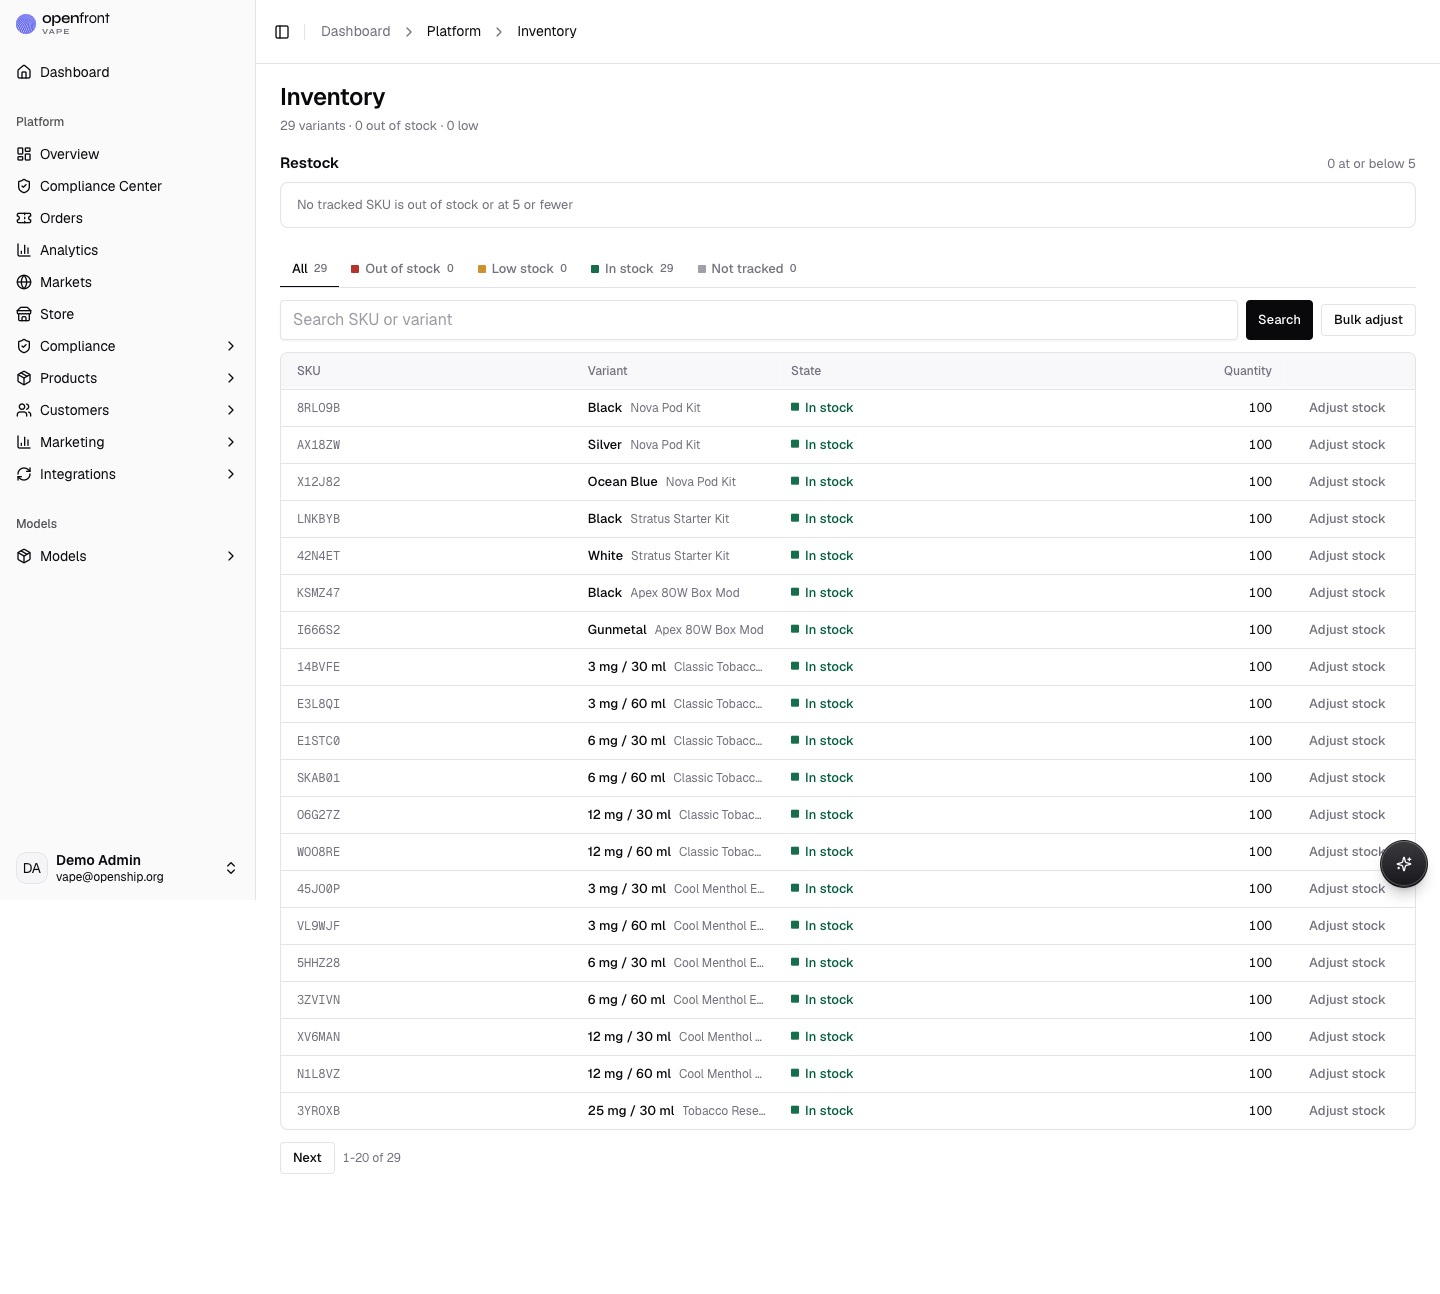
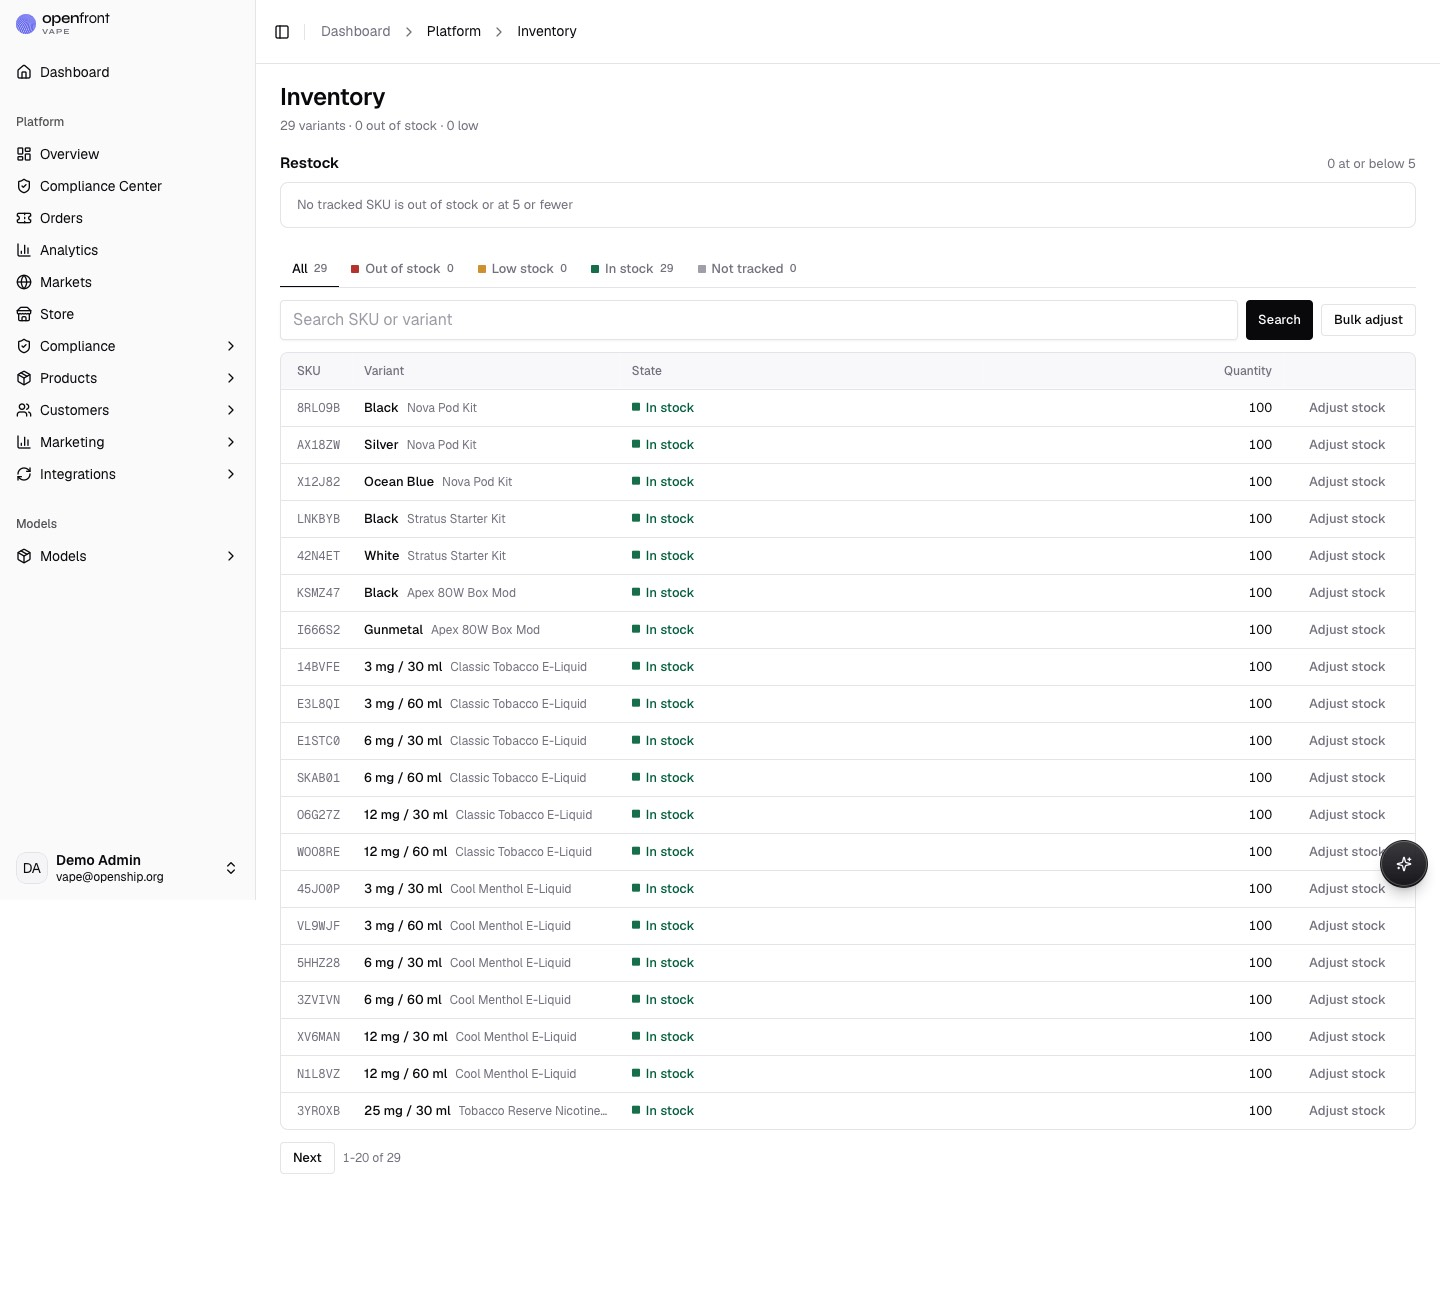
Design ready: full redesign report with live after screenshots

diff --git a/design/2026-10-25-full/DESIGN-READY.md b/design/2026-10-25-full/DESIGN-READY.md
@@ -1,0 +1,108 @@
+# Vape (Cloud Nine Vapor): full redesign of platform pages and storefront (2026-10-25)
+
+**Brief:** `~/Code/Euler/state/briefs/batches-2-6-full-redesign-2026-10-25.md`.
+
+**Live:** https://openfront-vape-production.up.railway.app/us (vape.openship.org once DNS is in).
+
+This is a redesign, not a polish. The earlier "spec sheet at night" storefront and the recessed-pill platform kit were treated as evidence and replaced. The shared dashboard shell is byte-identical to E-commerce (parity drift 0).
+
+## Process (impeccable)
+- **Context and product record.** I ran `impeccable context`, then wrote PRODUCT.md from inference. The owner ordered no approval stage, so the interview was skipped and every line is marked inferred.
+- **Critique.** Two isolated sub-agents. The synthesis is in `CRITIQUE.md`.
+  - The detector found nothing.
+  - Greps found 256 `rounded-full`, 64 `rounded-lg`/`rounded-xl` and 46 arbitrary 14–28px radii.
+  - One `<table>` existed in the whole platform.
+  - The release state was buried as 13px grey text.
+- **Direction rolls (`concept-seed`).**
+  - Platform (Operate): candidate 7 of 7, state excise tax stamps. Seed `798b96efc46301f0`.
+  - Storefront (Persuade): candidate 4 of 7, the shop's front window with neon and window lettering. Seed `9e4eac5c73a159f7`.
+  - The contracts are in `.impeccable/surfaces/features-{platform,storefront}.md`, including challenger verdicts and the raises they donated.
+- **Build.**
+  - I rewrote the kit myself (`vape-primitives.tsx`, `vape-ui.tsx`), plus the storefront theme (the `vp-*` section of `app/globals.css`) and its fonts.
+  - Six platform agents and one storefront agent then worked on disjoint directories.
+- **Gates.**
+  - `tsc --noEmit` exit 0 (full non-incremental run, plus the runner after every batch).
+  - Unit tests 22/22.
+  - Parity drift 0.
+  - `impeccable detect` returns `[]` on `features/platform` and `features/storefront`.
+- **Finish review.** A fresh `impeccable-finish-reviewer` returned **fix** with 8 items.
+  - Batch 1 was deployed. My first recapture caught the deploy mid-switch, and the reviewer rejected it. A clean recapture followed.
+  - The verdict pass scored **7 resolved and 1 partial**, and found 3 regressions: product names hidden on phone, a clipped queue row on phone, and inventory names crowded by the SKU column.
+  - Batch 2 fixed those and the partial item (the 21+ note, now lettered like door vinyl).
+  - Two rounds is the budget for an unattended run, so batch 2 has not been through a third review.
+- **Documentation.** `impeccable-documenter` wrote `DESIGN.md` and `.impeccable/design.json`.
+
+## Platform: the excise stamp
+- **Release bar.** Overview and Compliance Center open on a full-width release bar.
+  - It shows "Sales disabled" or "Sales enabled" as a stamp, the reason, and the kill-switch state.
+  - The kill-switch action sits right there. Its confirmation (a 10–500 character reason) is unchanged.
+- **Launch steps.** Blockers follow as ordered launch steps, each with its own fix link:
+  - kill switch;
+  - store details;
+  - merchant profile;
+  - rule set;
+  - product evidence;
+  - the five providers (identity, registry, tax, payment, carrier).
+- **Stamps.** Every compliance state is a flat 2px plate in its state colour with its word, a dotted state rule, and the record serial in mono. Stamp colours: cleared green, pending ochre, denied red, void grey.
+- **Controls.** Underline tabs replace recessed pill tracks. Buttons are flat 4px with one ink primary per page. Tables are dense with 36px rows and status columns. Empty states share one form.
+
+| Page | Leads with |
+|---|---|
+| Product Evidence | The unclassified-variants queue (now the default view), with Classify as the row action |
+| Provider approvals | The five required providers and which are missing, each with Add, Renew or Finish |
+| Jurisdictions | Coverage by level (allowed, blocked), then rule sets needing a policy |
+| Merchant profiles | Completeness, e.g. 5/7, with what is missing and a fix link |
+| Compliance ledger | Today's denials and manual reviews as a dense log: time, decision stamp, rule, purpose, jurisdiction, subject, actor, serial. The three pill tracks became one tab row plus two compact selects |
+| Orders | Held orders, then paid orders to ship, then the full table with payment and fulfilment status columns |
+| Products | Not on sale, one row per reason with a fix, then the table with a compliance stamp |
+| Inventory | The restock queue (lowest quantity first) |
+| Configuration lists | Discounts, gift cards, price lists, shipping, payment, markets and stores each lead with what is misconfigured or expiring |
+| Analytics | Sales now and what blocks revenue |
+| Store settings | Blank required fields |
+| API keys | Expired keys not yet revoked |
+
+## Storefront: the shop's front window
+- **The window band.** Deep glass, with:
+  - the store name in flat gold-leaf sign lettering (Big Shoulders, from Chicago sign-painting);
+  - one neon line beneath it in the logo hue (flat type, no fake glow);
+  - the departments painted on the glass as links;
+  - the 21+ notice lettered once like door vinyl.
+- **Inside.** Bright cool-white shelves, Hanken Grotesk body, Spline Sans Mono for strength, size and price. Product cards carry a strength, size and flavour fact table, using real option data only.
+- **Controls and chrome.**
+  - Joined square segmented plates. They wrap on phone.
+  - No pills anywhere.
+  - The footer is a glass band with gold headings.
+  - The age gate is a glass panel. Its cookie logic and copy are unchanged.
+- **Demo state.** Every demo product is a draft, so the shelves show the designed "being stocked" state.
+- **What I did not add.** No regulatory warning copy. That stays an owner decision.
+
+## Skills used, per screen, and what each changed
+- **impeccable.** All of the process above:
+  - Operate rules on every platform page (type, palette, density and one signature move; never a costume layout).
+  - Persuade rules on the home window (the departments are the working entry).
+  - Craft floor, detector, a reviewer with a verdict pass, and the documenter.
+- **design-taste-frontend / frontend-design.** The seven-candidate inventories came from the vape shop's world (bottle labels, FDA warning box, COA lab sheets, PACT shipping labels, backbar, line sheets, excise stamps). Its generated-design defaults list removed mono uppercase labels, tracked small caps (22 instances), "01/02" numbering and eyebrows.
+- **industrial-brutalist-ui.** Supplied the density courage of the ledger tables and the hairline-grid discipline. I rejected its uppercase mono.
+- **minimalist-ui.** Supplied the flat 4px controls and borders in place of shadows. I rejected its pill badges.
+- **gpt-taste.** Supplied the meta-label ban on the storefront and the "being stocked" state in place of empty boxes.
+- **high-end-visual-design / emil-design-eng.** Supplied a single motion grammar (150ms colour transitions, the department arrow nudge) with reduced motion respected. I rejected the pill CTAs.
+- **color-expert.** Supplied the oklch stamp colours and the light-ground contrast checks after the switch from dark to light.
+- **hallmark / creative-director.** Used as the anti-template check across the candidates.
+
+## Commits (master, auto-deployed)
+- `da7ad47` Platform redesign: release state first, excise-stamp compliance states, real tables
+- `2f5e892` Storefront redesign: the shop's front window
+- `a343306` Design record: product context, direction contracts, critique and before screenshots
+- `26b7aa2` Redesign finish-review fixes
+- `9b58faa` Redesign verdict-pass fixes and design system record
+
+## Screenshots
+- Captured from the live demo with Playwright (WebKit) at 1440x900 and 390x844, full page.
+- Storefront shots after the gate were taken with the age cookie set.
+- Before: `before/before-*.jpg`, where the storefront ones are behind the age gate.
+- After: `after/after-*.jpg`.
+
+## Open
+- **Onboarding.** `features/platform/onboarding/**` still has rounded-full chips and step markers. Onboarding files were off-limits per the brief.
+- **Small type.** The 10–11px microtype on spec tiles and counts sits below the contract's 12px minimum.
+- **Batch 2 review.** The final fix batch (verdict-pass regressions) has no third review; two rounds is the unattended budget.
